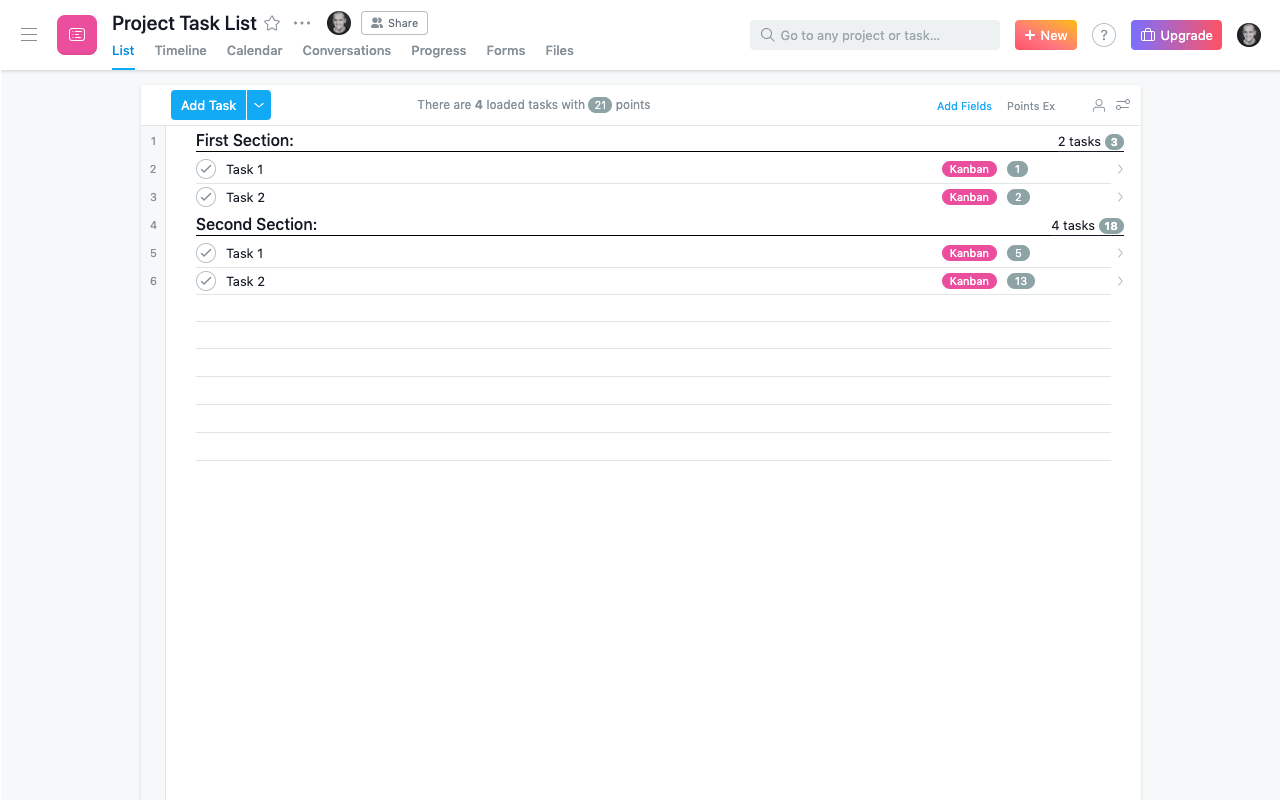
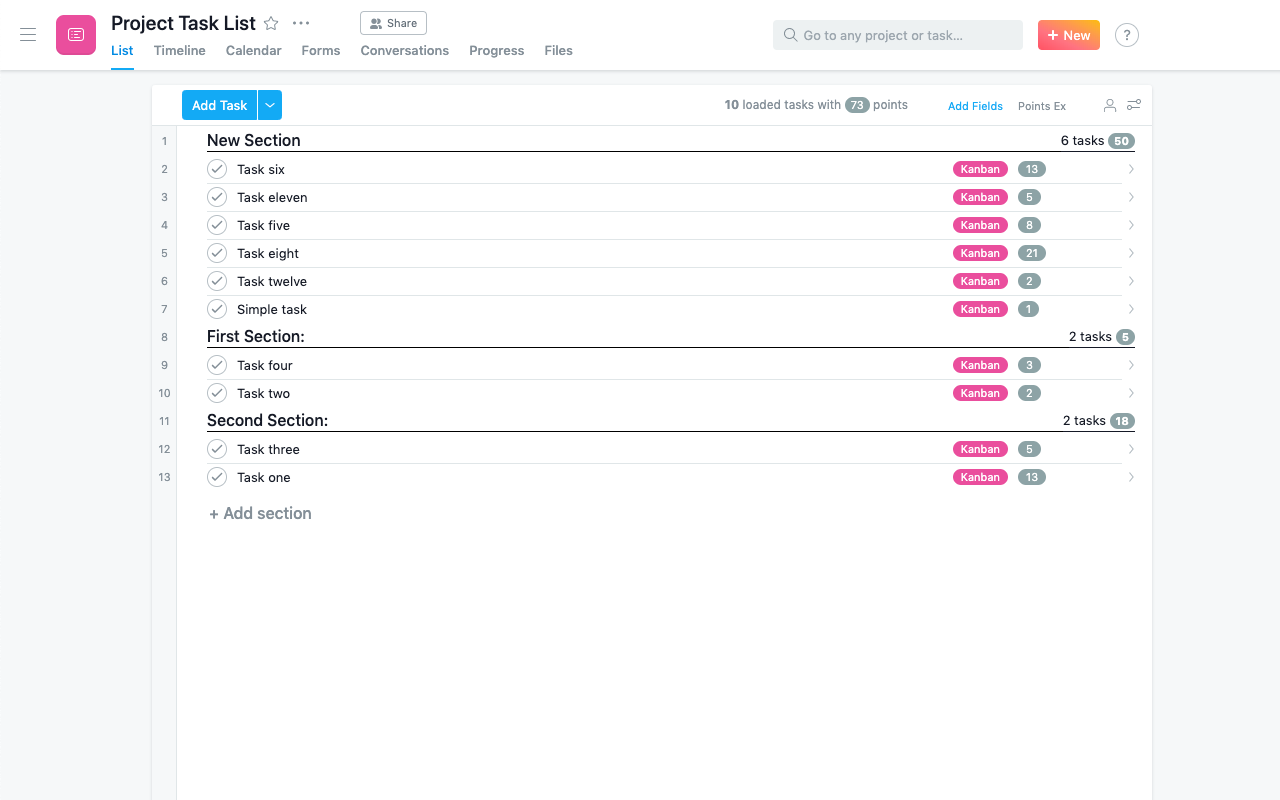
Bug fixes
- https://github.com/vkorobov-boostlabs/asana-counter/issues/1
- https://github.com/vkorobov-boostlabs/asana-counter/issues/2

diff --git a/script.js b/script.js
@@ -130,10 +130,10 @@ setInterval(function () {
             totalLabelElement.className = "totalCounterLabel";
             boardHeaderRow.insertBefore(totalLabelElement, boardHeaderRow.firstChild);
         }
-        totalLabelElement.innerHTML = 'There are <b>' + boardTSum + '</b> loaded tasks with <span class="smallPill">' + boardPSum + '</span> points';
+        totalLabelElement.innerHTML = '<b>' + boardTSum + '</b> loaded tasks with <span class="smallPill">' + boardPSum + '</span> points';
 
     } else if (viewType === 'list') { //we are in the list view
-        var listHeaderElement = document.getElementsByClassName("GridHeader")[0];
+        var listHeaderElement = document.getElementsByClassName("GridHeaderStructure-right")[0];
         if (listHeaderElement === 'undefined') {
             return;
         }
@@ -144,9 +144,9 @@ setInterval(function () {
             totalLabelElement = document.createElement('span');
             totalLabelElement.id = "listTotalCounter";
             totalLabelElement.className = "totalCounterLabel";
-            totalLabelElement.style.cssText = "font-size:11; padding-right:0;";
+            totalLabelElement.style.cssText = "font-size:11; padding-right:0;line-height: 12px;";
             try {
-                listHeaderElement.insertBefore(totalLabelElement, listHeaderElement.lastChild);
+                listHeaderElement.insertBefore(totalLabelElement, listHeaderElement.firstChild);
             } catch (e) {}
         }
 
@@ -185,14 +185,14 @@ setInterval(function () {
                 if (rowElement) //it is a section
                 {
                     sectoinNameElement = rowElement.getElementsByClassName('SectionRow-sectionName')[0].children[0];
-                    taskCounter = document.getElementById("rowTaskCounter" + rowN);
-                    //taskCounter = rowElement.getElementsByClassName('rowTaskCounter')[0];
+                    //taskCounter = document.getElementById("rowTaskCounter" + rowN);
+                    taskCounter = rowElement.getElementsByClassName('rowTaskCounter')[0];
                     if (taskCounter) {
                         //there is already an element
                     } else {
                         taskCounter = document.createElement('div');
                         // taskCounter.className = "totalCounterLabel";
-                        taskCounter.style.cssText = "font-size:11; padding-right:0; margin-right: -13px; border-bottom:solid 1px; margin-bottom:-2px;";
+                        taskCounter.style.cssText = "font-size:11; padding-right:0; margin-right: -13px; border-bottom:solid 1px; margin-bottom:-2px; padding-bottom: 1px;";
                         taskCounter.id = "rowTaskCounter" + rowN;
                         taskCounter.className = "rowTaskCounter";
                         rowElement.appendChild(taskCounter);
@@ -207,7 +207,7 @@ setInterval(function () {
             }
         });
 
-        totalLabelElement.innerHTML = 'There are <b>' + tSum + '</b> loaded tasks with <span class="smallPill">' + pSum + '</span> points';
+        totalLabelElement.innerHTML = '<b>' + tSum + '</b> loaded tasks with <span class="smallPill">' + pSum + '</span> points';
     }
 
 }, 2000);
